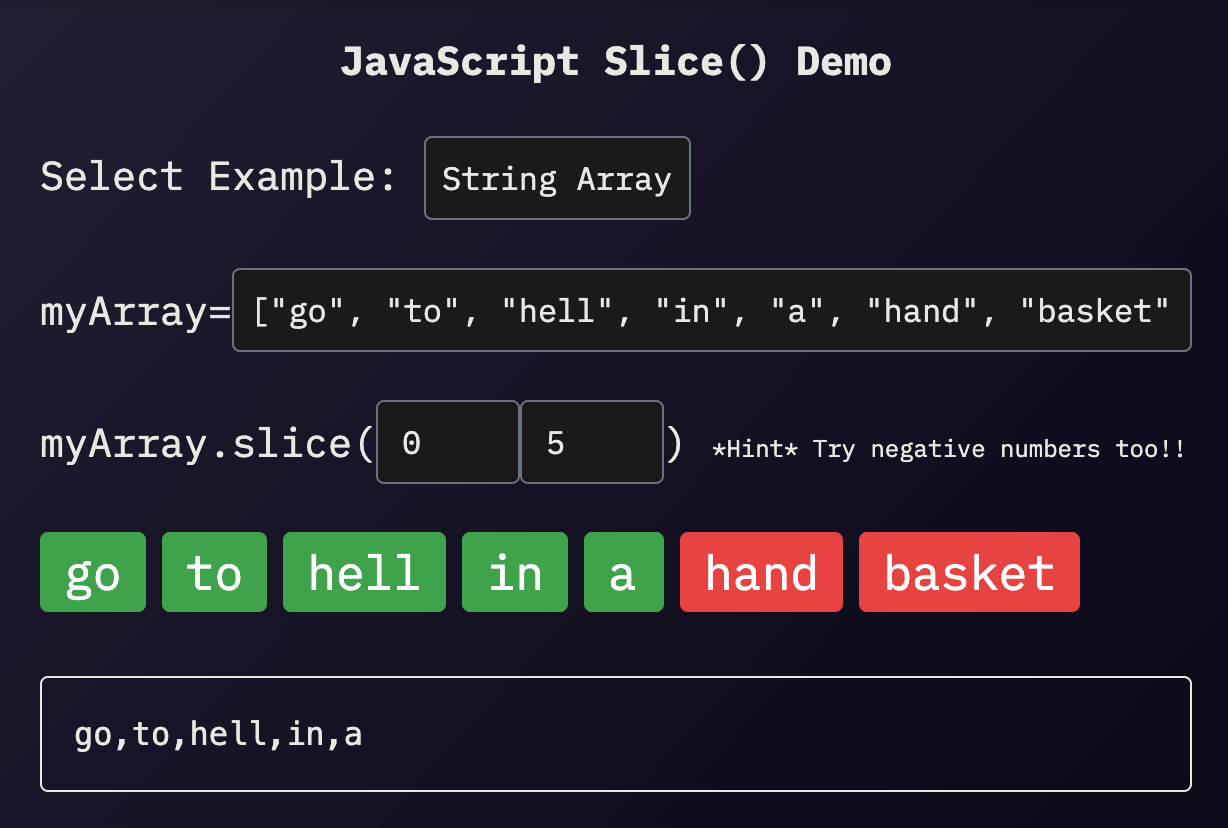
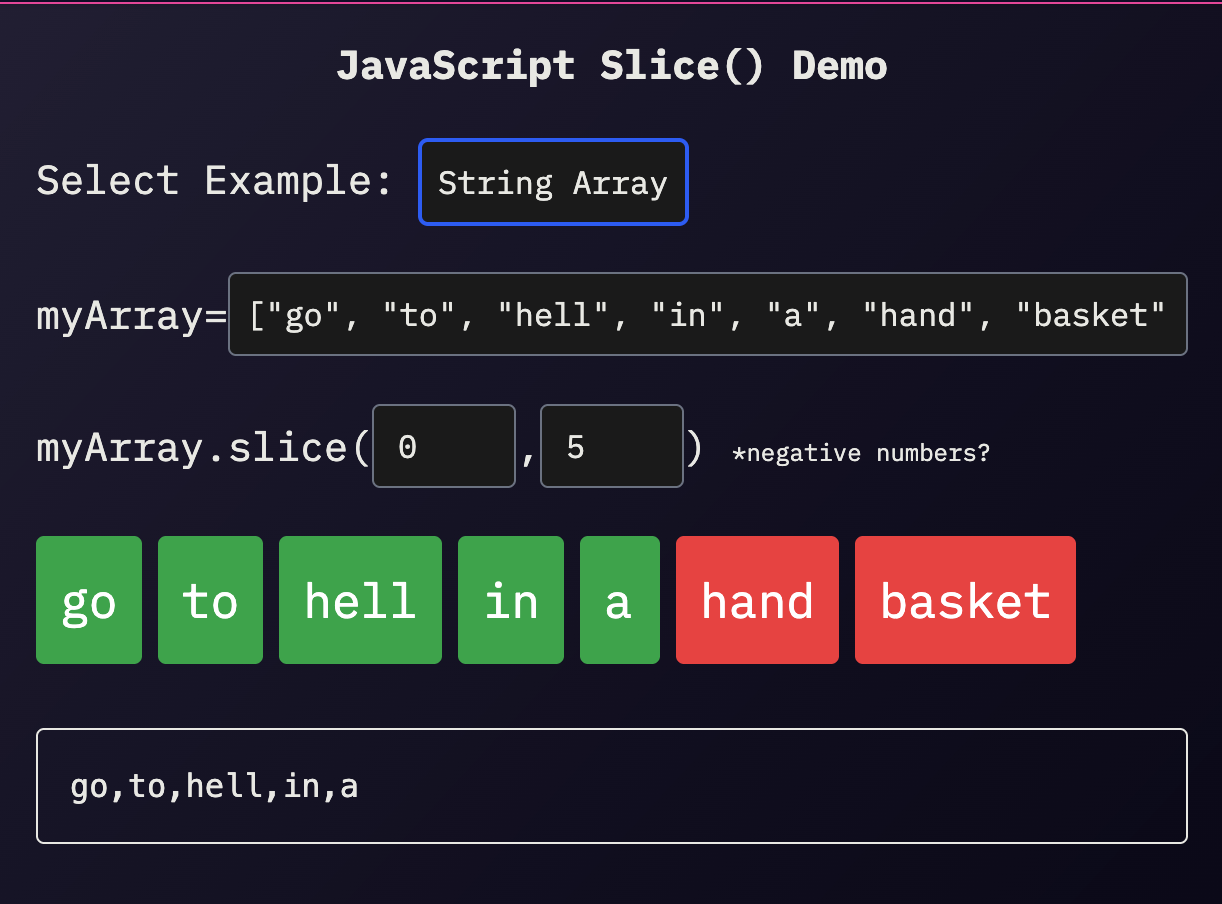
finished js-slice

diff --git a/src/routes/understand-stuff/js-slice/+page.svelte b/src/routes/understand-stuff/js-slice/+page.svelte
@@ -98,16 +98,16 @@
 
 	<div class="flex items-center text-xl">
 		<p>myArray.slice(</p>
-		<input type="number" bind:value={$startIndex} class="w-18 border" />
+		<input type="number" bind:value={$startIndex} class="w-18 border" />,
 		<input type="number" bind:value={$endIndex} class="w-18 border" />
 		<p>) <span class="text-xs">*negative numbers?</span></p>
 	</div>
 
 	<div class="mb-4">
-		<div class="mt-2 flex flex-wrap gap-2 text-2xl">
+		<div class=" mt-2 flex flex-wrap gap-2 text-2xl">
 			{#each $coloredElements as item}
 				<span
-					class="min-w-10 rounded px-3 py-1 text-white"
+					class="min-w-10 rounded px-3 py-4 text-white"
 					class:bg-green-600={item.kept}
 					class:bg-red-500={!item.kept}
 				>
